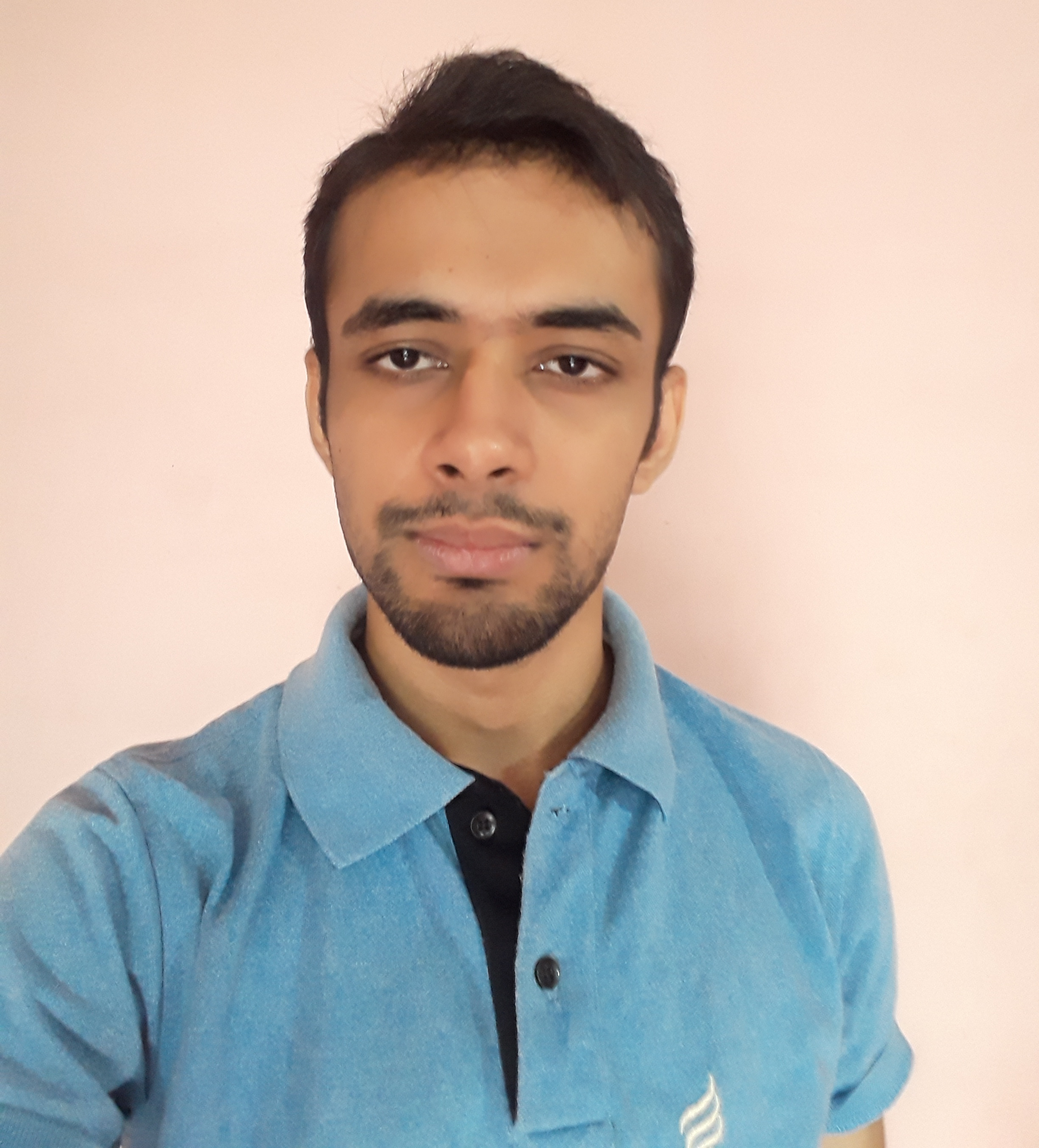
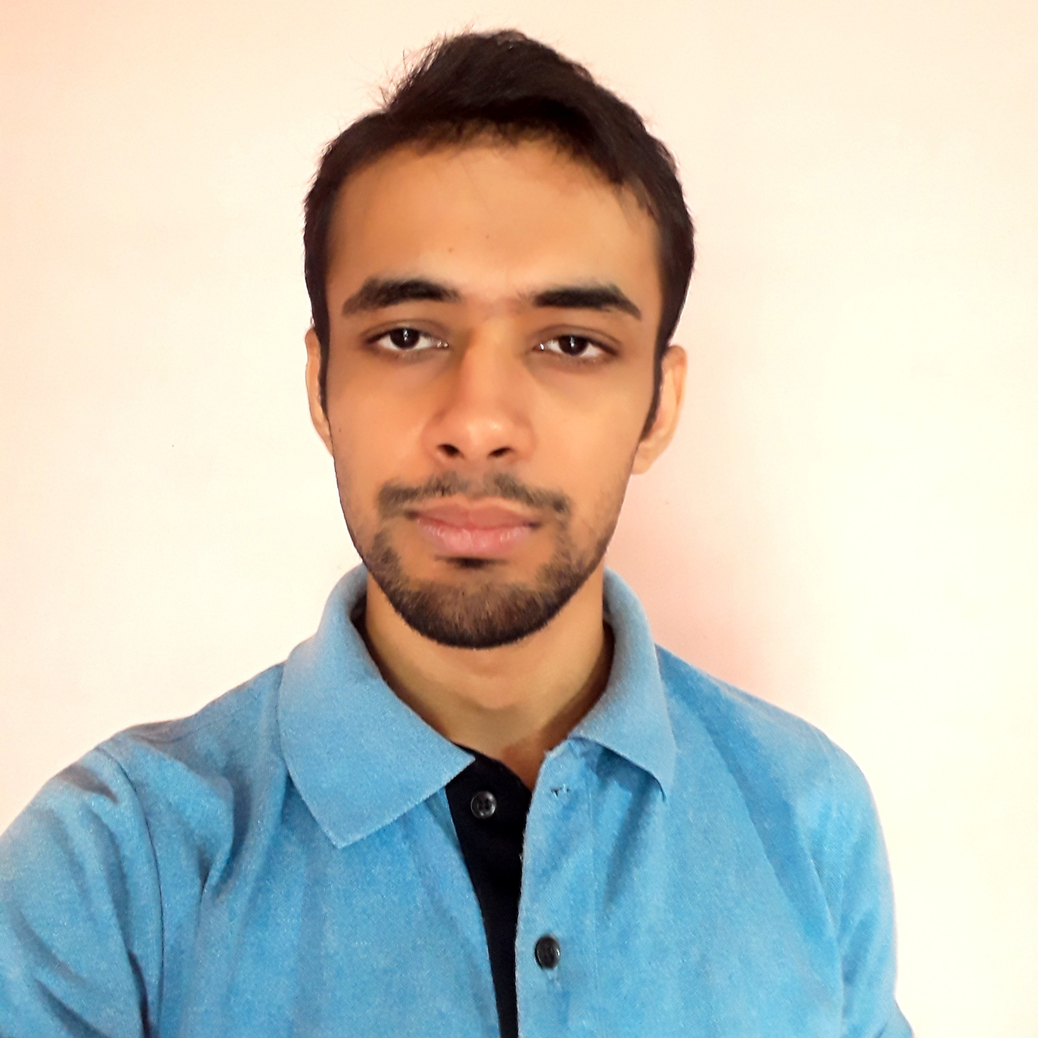
hamburger + minor updates

diff --git a/components/AppComponent.tsx b/components/AppComponent.tsx
@@ -6,9 +6,9 @@ import Backdrop from "./Sections/UIs/Backdrop"
 import Sidebar from "./Sidebar"
 import Style from './AppComponent.module.css'
 
-export const SelectProjectContext = createContext<Function | null>(null)
-
 type DrawerState = 'open' | 'close'
+
+export const SelectProjectContext = createContext<Function | null>(null)
 
 const AppComponent = () => {
 
@@ -21,25 +21,34 @@ const AppComponent = () => {
         containerStyle += Style.OffCanvas;
     }
 
+    const toggleDrawer = () => {
+        setDrawerState(prevState => prevState == 'open' ? 'close' : 'open')
+    }
+
     return (
         <SelectProjectContext.Provider value={setSelectedProject}>
             <Backdrop show={selectedProject != null} click={() => setSelectedProject(null)} />
-            {selectedProject && <ProjectPopup project={selectedProject} click={() => setSelectedProject(null)} />}
 
-            <button className='block md:hidden fixed top-5 left-5 z-50' onClick={() => setDrawerState(prevState => prevState == 'open' ? 'close': 'open')}>
-                <div className="h-[2px] w-6 mb-1 bg-gray-400"></div>
-                <div className="h-[2px] w-6 mb-1 bg-gray-400"></div>
-                <div className="h-[2px] w-6 mb-1 bg-gray-400"></div>
-            </button>
+            {selectedProject && <ProjectPopup project={selectedProject} click={() => setSelectedProject(null)} />}
 
             <div className={`${containerStyle}`} >
                 <Sidebar />
-                <Sections />
+                <Sections>
+                    <HamburgerButton toggleDrawer={toggleDrawer} />
+                </Sections>
             </div>
-
         </SelectProjectContext.Provider>
     )
 }
 
+const HamburgerButton = ({ toggleDrawer }: { toggleDrawer: Function }) => {
+    return (
+        <button className={`${Style.Hamburger} block md:hidden fixed top-5 left-5 z-50`} onClick={() => toggleDrawer()} >
+            <div className="h-[2px] w-6 mb-1 bg-gray-400"></div>
+            <div className="h-[2px] w-6 mb-1 bg-gray-400"></div>
+            <div className="h-[2px] w-6 mb-1 bg-gray-400"></div>
+        </button>
+    )
+}
 export default AppComponent
 

diff --git a/components/Sidebar/intro.tsx b/components/Sidebar/intro.tsx
@@ -3,18 +3,18 @@ import Image from "next/image"
 function Intro() {
     return (
         <>
-            <div className="w-36 h-36 relative overflow-hidden ring-1 ring-gray-300 mb-5 rounded-full border-5 border-red-500 bg-[#fce2d0] mx-auto">
+            <div className="w-36 h-36 relative overflow-hidden ring-1 hover:ring-2 ring-gray-300 mb-5 rounded-full border-5 border-red-500 mx-auto">
                 <Image
                     src="/images/me.jpg"
                     layout="fill"
                     alt='Santosh Neupane Image'
-                    className='absolute object-contain' />
+                    className='absolute object-fill aspect-square' />
             </div>
             <div className="text-center">
                 <h1 className='font-bold text-xl tracking-wide'>
                     <a href="#">
                         Santosh Neupane
-                   </a>
+                    </a>
                 </h1>
                 <span className="position">
                     <a href="#">

diff --git a/pages/_document.js b/pages/_document.js
@@ -10,13 +10,13 @@ export default function Document() {
                 <link rel='icon' type='image/png' href='/favicon-16x16.png' sizes="16x16" />
 
                 <link rel='icon' type='image/png' href='/android-chrome-192x192.png' sizes="192x192" />
-                <link rel='icon' type='image/png' href='android-chrome-512x512.png' sizes="512x512" />
+                <link rel='icon' type='image/png' href='/android-chrome-512x512.png' sizes="512x512" />
 
-                <link rel='icon' type='image/png' href='apple-touch-icon.png' sizes="180x180" />
+                <link rel='icon' type='image/png' href='/apple-touch-icon.png' sizes="180x180" />
 
-                <link rel="shortcut icon" href="favicon.ico" type="image/x-icon" />
+                <link rel="shortcut icon" href="/favicon.ico" type="image/x-icon" />
 
-                <link rel="manifest" href="/manifest.json" />
+                <link rel="manifest" href="/site.webmanifest" />
             </Head>
 
             <body>

diff --git a/components/Sections/About.tsx b/components/Sections/About.tsx
@@ -25,7 +25,7 @@ const About = () => {
 
 const ResumeDownloadButton = () =>
     <button
-        className='bg-white shadow-xl mt-5 text-gray-600 border border-gray-300 inline-flex justify-center gap-2 w-36 text-center rounded-lg px-5 py-3 cursor-pointer uppercase tracking-widest'
+        className='bg-white shadow-xl mt-5 hover:ring-1 text-gray-600 border border-gray-300 inline-flex justify-center gap-2 w-36 text-center rounded-lg px-5 py-3 cursor-pointer uppercase tracking-widest'
         onClick={() => window.open('/files/Santosh_Neupane_Resume.pdf', '_blank')}>
 
         <div className="animate-custom-bounce">

diff --git a/components/Sections/index.tsx b/components/Sections/index.tsx
@@ -6,10 +6,12 @@ import Projects from './Projects'
 import Achievements from './Achievements'
 import Blogs from './Blogs'
 import Style from './Sections.module.css'
+import { ReactNode } from 'react'
 
-const Sections = () => {
+const Sections = ({ children }: { children: ReactNode }) => {
     return (
-        <div className={`${Style.sections} px-5 md:px-10`}>
+        <div className={`${Style.sections} relative px-5 md:px-10`}>
+            {children} {/*  drawer hamburger button  */}
             <About />
             <Skills />
             <Experience />

diff --git a/pages/index.tsx b/pages/index.tsx
@@ -8,11 +8,10 @@ const Home: NextPage = () => {
             <Head>
                 <title>Santosh Neupane</title>
                 <meta name="description" content="Portfolio site of fullstack developer." />
-                <link rel="icon" href="/favicon.ico" />
             </Head>
 
             <main className="w-full relative overflow-hidden">
-                    <AppComponent />
+                <AppComponent />
             </main>
 
         </div>

diff --git a/components/Sidebar/index.tsx b/components/Sidebar/index.tsx
@@ -7,9 +7,9 @@ function Sidebar() {
 
         <aside className="pt-16 fixed overflow-y-scroll bg-gray-100 h-screen w-72">
             <Intro />
-            <SocialIcons/>
+            <SocialIcons />
             <hr className='border-t border-gray-300 my-5' />
-            <Nav/>
+            <Nav />
         </aside>
     )
 }

diff --git a/components/Sections/Achievements.tsx b/components/Sections/Achievements.tsx
@@ -32,7 +32,7 @@ const AchievementsCarousels = () => {
     };
 
     return (
-        <div className='mt-20 px-2'>
+        <div className='mt-20 px-8'>
             <Slider {...settings}>
                 <Carousel image='/images/certs/problem_solving.png' />
                 <Carousel image='/images/certs/icpc.jpg' />

diff --git a/components/Sections/Sections.module.css b/components/Sections/Sections.module.css
@@ -1,9 +1,8 @@
 .sections {
     width: calc(100% - 18rem);
     margin-left: 18rem;
-    transition:0.5s;
+    transition: 0.5s;
 }
-
 
 @media screen and (max-width: 768px) {
     .sections {

diff --git a/components/AppComponent.module.css b/components/AppComponent.module.css
@@ -3,6 +3,10 @@
     margin:auto;
 }
 
+.Hamburger{
+    margin-left: 18rem;
+}
+
 @media screen and (max-width: 768px) {
     .Container.OffCanvas {
         transform: translateX(-18rem);
